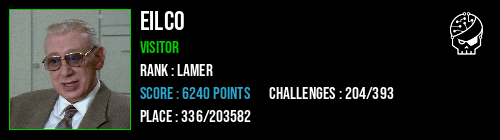
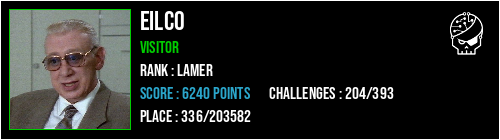
add border color

Changed region(s): [[0.0, 0.0, 1.0, 1.0]]

diff --git a/badge.php b/badge.php
@@ -34,6 +34,7 @@ class User
 
 class Theme
 {
+    public $border_color;
     public $bg_color;
     public $nick_color;
     public $place_color;
@@ -76,6 +77,7 @@ class Theme
     }
     public function whiteTheme(): void
     {
+        $this->border_color = self::black;
         $this->bg_color = self::white;
         $this->nick_color = self::black;
         $this->place_color = self::black;
@@ -91,6 +93,7 @@ class Theme
 
     public function blackTheme(): void
     {
+        $this->border_color = self::white;
         $this->bg_color = self::black;
         $this->nick_color = self::white;
         $this->place_color = self::white;
@@ -118,6 +121,7 @@ class Badge
 
         // allocate color
         $bg_color = imagecolorallocate($image, $theme->bg_color[0], $theme->bg_color[1], $theme->bg_color[2]);
+        $border_color = imagecolorallocate($image, $theme->border_color[0], $theme->border_color[1], $theme->border_color[2]);
         $img_border_color = imagecolorallocate($image, $theme->status_color[$user->status][0], $theme->status_color[$user->status][1], $theme->status_color[$user->status][2]);
         $nick_color = imagecolorallocate($image, $theme->nick_color[0], $theme->nick_color[1], $theme->nick_color[2]);
         $place_color = imagecolorallocate($image, $theme->place_color[0], $theme->place_color[1], $theme->place_color[2]);
@@ -128,6 +132,8 @@ class Badge
 
         // background color
         imagefill($image, 0, 0, $bg_color);
+        // border
+        imagerectangle($image, 0, 0, self::WIDTH-1 , self::HEIGHT -1 , $border_color);
 
         // draw profile picture
         $width = $height = (int)self::HEIGHT - self::PADDING * 2;
